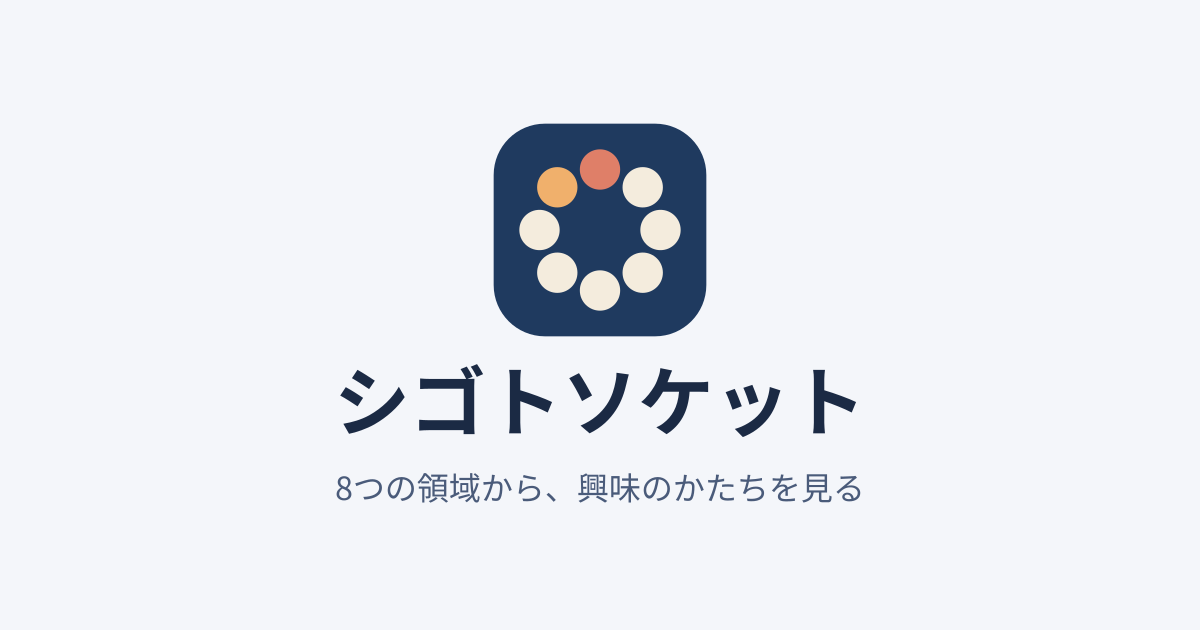
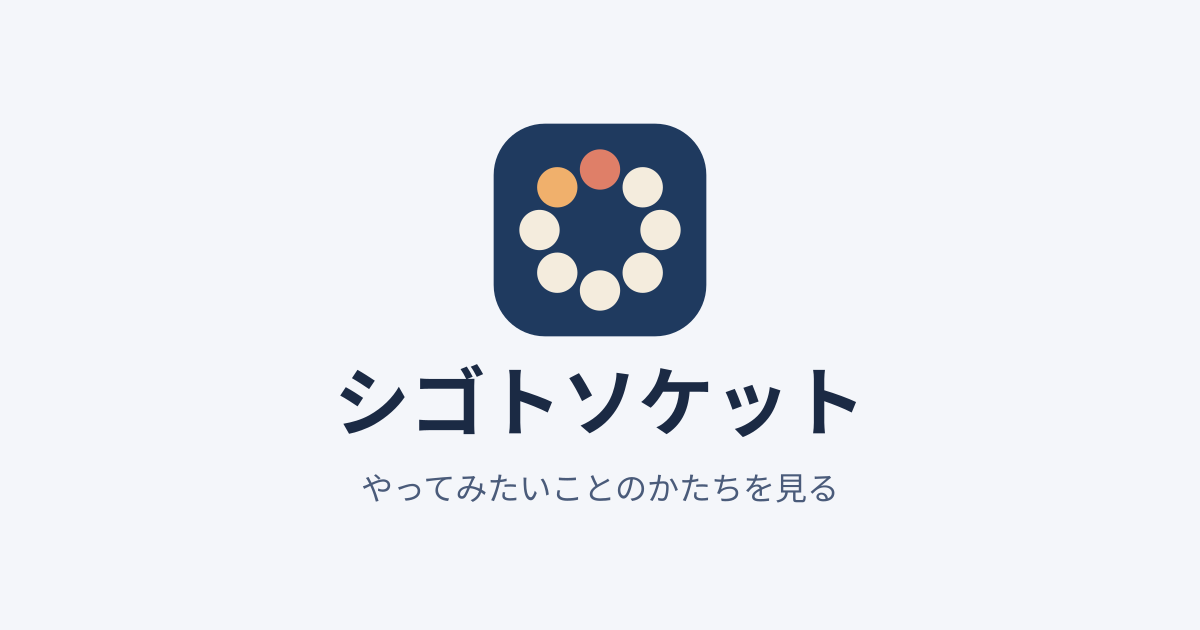
要確認24を解消: 公開文言4か所を確定
OGPコピーは「やってみたいことのかたちを見る」。ORVISが測るものを
そのまま言う形にし、マークの比喩を文へ持ち込む案は採らなかった。
サブタイトルはココロパレアと語尾を揃えて「自己理解支援ツール」に。

Claude-Session: https://claude.ai/code/session_01UBtgMZnpSWEKNYQxHZc2bK

Changed region(s): [[0.2775, 0.754, 0.7092, 0.8143]]

diff --git a/app/index.html b/app/index.html
@@ -7,8 +7,8 @@
       http-equiv="Content-Security-Policy"
       content="default-src 'self'; script-src 'self'; style-src 'self'; img-src 'self' data: blob:; connect-src 'none'; base-uri 'none'; form-action 'none'"
     />
-    <title>シゴトソケット｜ORVISによる職業興味の自己理解ツール</title>
-    <meta name="description" content="ORVIS短縮版45問による職業興味の診断。結果はこの端末にのみ保存されます。" />
+    <title>シゴトソケット｜ORVIS 職業興味の自己理解支援ツール</title>
+    <meta name="description" content="ORVIS短縮版45問で、8つの領域から興味のかたちを見ます。結果はこの端末にのみ保存されます。" />
     <meta name="theme-color" content="#f4f6fa" />
     <!-- 【仮】サブドメイン確定まで暫定。検討事項21 -->
     <link rel="canonical" href="https://sigotosocket.sikumilab.com/" />
@@ -16,8 +16,8 @@
     <link rel="icon" href="assets/brand/sigotosocket-mark.svg" type="image/svg+xml" />
     <link rel="apple-touch-icon" href="assets/brand/sigotosocket-icon-180.png" />
     <meta property="og:site_name" content="シゴトソケット" />
-    <meta property="og:title" content="シゴトソケット｜ORVISによる職業興味の自己理解ツール" />
-    <meta property="og:description" content="ORVIS短縮版45問による職業興味の診断。結果はこの端末にのみ保存されます。" />
+    <meta property="og:title" content="シゴトソケット｜ORVIS 職業興味の自己理解支援ツール" />
+    <meta property="og:description" content="ORVIS短縮版45問で、8つの領域から興味のかたちを見ます。結果はこの端末にのみ保存されます。" />
     <meta property="og:type" content="website" />
     <meta property="og:url" content="https://sigotosocket.sikumilab.com/" />
     <meta property="og:image" content="https://sigotosocket.sikumilab.com/assets/brand/ogp.png" />

diff --git a/docs/brand.md b/docs/brand.md
@@ -47,7 +47,18 @@ URLの正典は `appMeta.siteOrigin`。**サブドメインが未確定（検討
 確定したら `app/js/config/app-meta.js` の1箇所を直せば `npm run check` と
 `app/tests/brand-assets.test.js` が index.html との食い違いを検出する。
 
-OGPのキャッチコピー「8つの領域から、興味のかたちを見る」は**【要確認】**。仮に置いたもの。
+公開文言は2026-09-04に確定（要確認24を解消）。
+
+| 場所 | 文言 |
+|---|---|
+| タイトル・og:title | シゴトソケット｜ORVIS 職業興味の自己理解支援ツール |
+| description・og:description | ORVIS短縮版45問で、8つの領域から興味のかたちを見ます。結果はこの端末にのみ保存されます。 |
+| OGP画像のコピー | やってみたいことのかたちを見る |
+| カードのサブタイトル | 〜ORVIS 職業興味の自己理解支援ツール〜 |
+
+「自己理解支援ツール」はココロパレアのサブタイトル（〜Big Five 自己理解支援ツール〜）と語尾を揃えたもの。
+コピーはORVISが測るもの（どんな活動をやってみたいか）をそのまま言っている。マークの比喩を文へ持ち込む案
+（「8つのうち、あなたに灯る2つ」など）は、興味について人が使う言葉ではないため採らなかった。
 
 ## 4. 検討の記録
 
